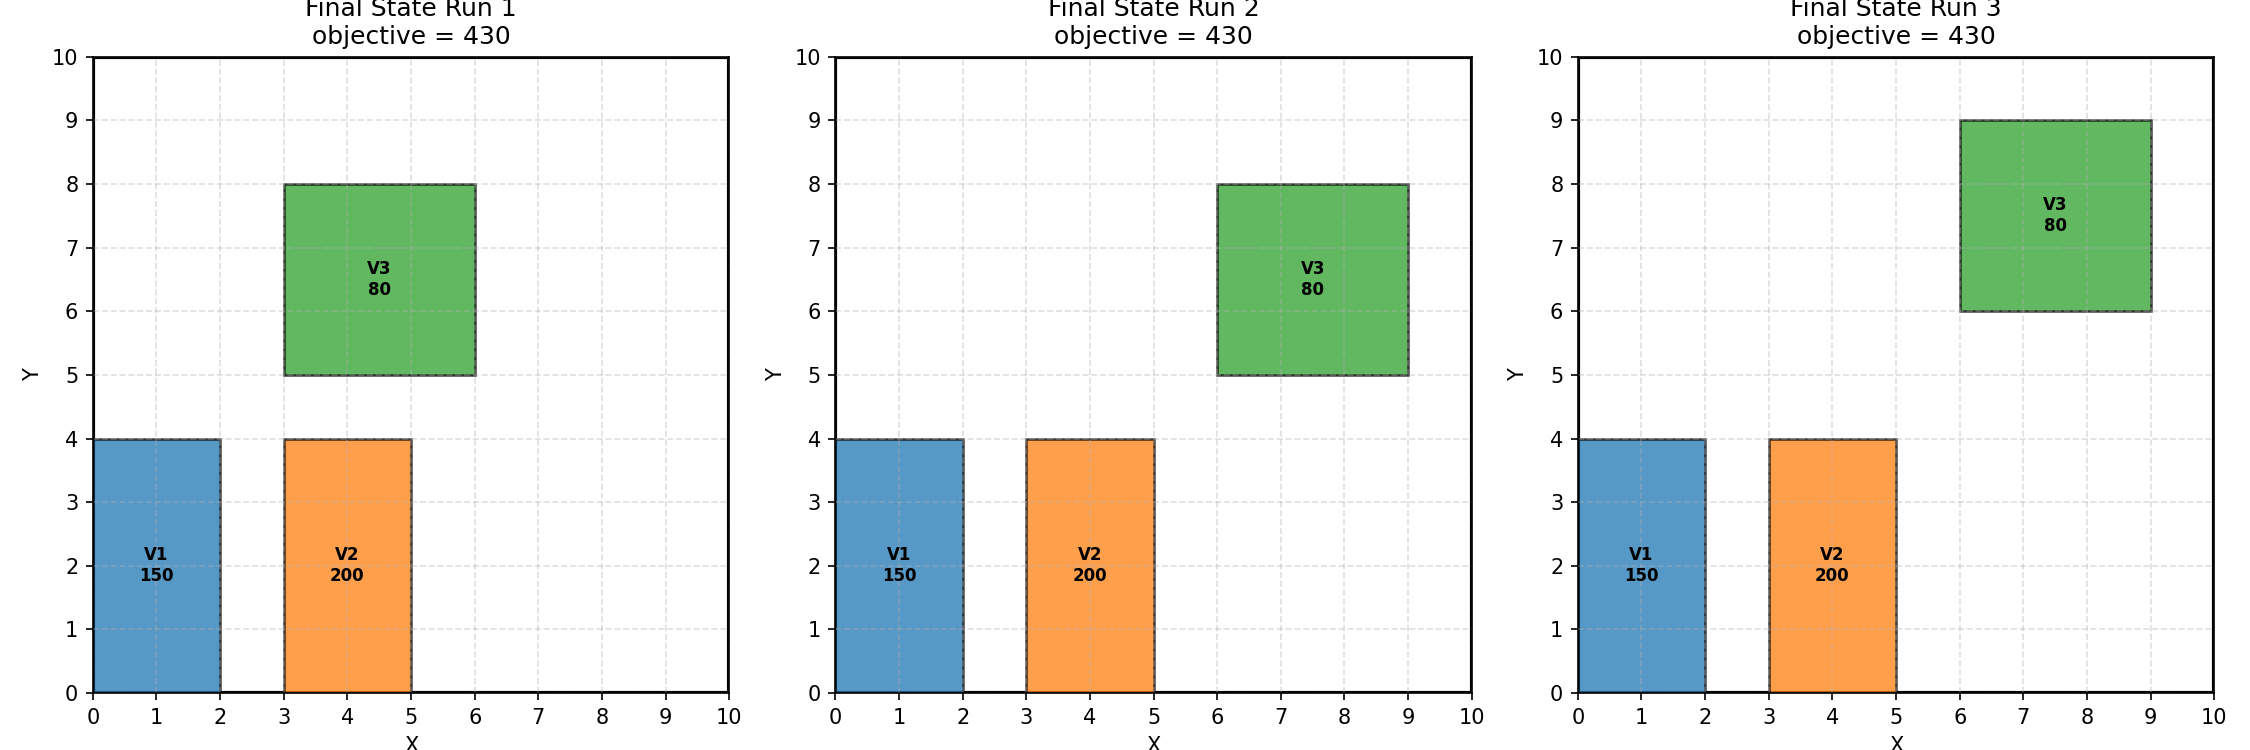
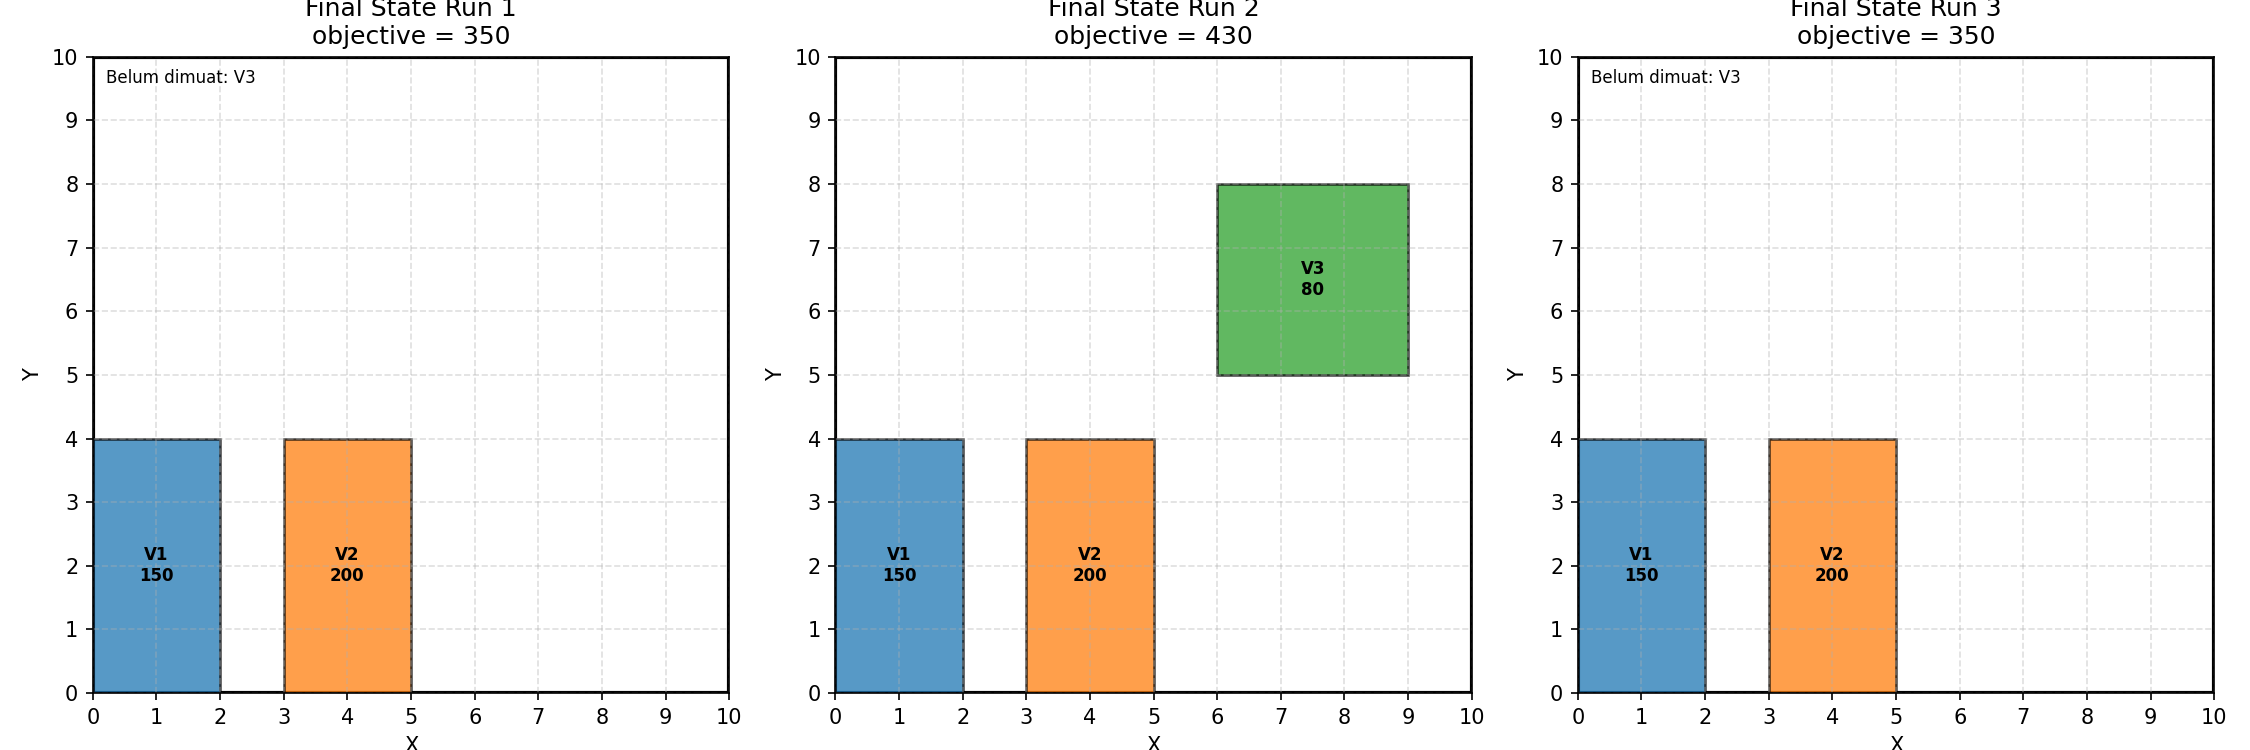
feat(hill-climbing): implement lab standard stochastic hill climbing with candidate sampling

diff --git a/src/hill_climbing.py b/src/hill_climbing.py
@@ -56,47 +56,52 @@ def get_random_neighbor(vehicles, ship):
     return neighbor
 
 
-# Simple / Stochastic Hill Climbing
-def hill_climbing(awal, ship, max_eval=3000, max_stuck=300):
-    print(f"Maksimum evaluasi tetangga: {max_eval}")
-    t0 = time.process_time()
-    
-    # Simpan state awal
-    state_sekarang = copy.deepcopy(awal)
-    skor = objective_function(state_sekarang, ship)
-    print(f"Skor Awal Objective: {skor}")
-    history = [skor]
-    stuck = 0
-    iterasi = 0
-    print(f"[{iterasi}] State Awal. Skor: {skor}")
-    
-    while iterasi < max_eval and stuck < max_stuck:
-        iterasi += 1
-        # Gunakan copy.deepcopy() saat membuat neighbor agar tidak terjadi in-place mutation
-        tetangga = get_random_neighbor(state_sekarang, ship)
-        skor_tetangga = objective_function(tetangga, ship)
-        
-        # Kriteria penerimaan solusi: current_state HANYA di-update jika neighbor_score > current_score
-        if skor_tetangga > skor:
-            state_sekarang = copy.deepcopy(tetangga)
-            skor = skor_tetangga
-            stuck = 0
-            print(f"[{iterasi}] Pindah. Skor Baru: {skor}")
-        else:
-            stuck += 1
+# Stochastic Hill Climbing sesuai standar Lab
+def stochastic_hill_climbing(initial_vehicles, ship, max_iterations=3000, num_candidates=4):
+    current_vehicles = copy.deepcopy(initial_vehicles)
+    current_score = objective_function(current_vehicles, ship)
+    history_score = [current_score]
+    total_iterations = 0
 
-        # List history mencatat current_score (skor terbaik saat itu di setiap iterasi), BUKAN neighbor_score acaknya
-        history.append(skor)
-            
+    while total_iterations < max_iterations:
+        total_iterations += 1
+        better_neighbors = []
+
+        # Sampling sekumpulan kandidat tetangga acak
+        for _ in range(num_candidates):
+            candidate = get_random_neighbor(current_vehicles, ship)
+            candidate_score = objective_function(candidate, ship)
+            if candidate_score > current_score:
+                better_neighbors.append((candidate, candidate_score))
+
+        # Terhenti jika tidak ada kandidat yang lebih baik (stuck di local optima)
+        if not better_neighbors:
+            break
+
+        # Pilih 1 kandidat secara acak dari kumpulan yang lebih baik
+        selected_neighbor, selected_score = random.choice(better_neighbors)
+        current_vehicles = copy.deepcopy(selected_neighbor)
+        current_score = selected_score
+        
+        history_score.append(current_score)
+
+    return current_vehicles, current_score, total_iterations, history_score
+
+
+# Alias fungsi untuk kompatibilitas
+def hill_climbing(awal, ship, max_eval=3000, max_stuck=300, num_candidates=4):
+    t0 = time.process_time()
+    best_vehicles, best_score, total_iterations, history_score = stochastic_hill_climbing(
+        awal, ship, max_iterations=max_eval, num_candidates=num_candidates
+    )
     lama = time.process_time() - t0
-    skor_awal = history[0]
     return {
         "initial_state": copy.deepcopy(awal),
-        "final_state": state_sekarang,
-        "skor_awal": skor_awal,
-        "final_score": skor,
-        "score_history": history,
-        "total_evaluations": iterasi,
+        "final_state": best_vehicles,
+        "skor_awal": history_score[0],
+        "final_score": best_score,
+        "score_history": history_score,
+        "total_evaluations": total_iterations,
         "execution_time": lama,
     }
 
@@ -209,8 +214,21 @@ def run_experiment(show_plot=True):
     for run, seed in enumerate([1, 2, 3], start=1):
         random.seed(seed)
         print(f"\n--- EKSPERIMEN RUN {run} ---")
-        res = hill_climbing(copy.deepcopy(kendaraan_awal), kapal, 3000, 300)
-        res["run_id"] = run
+        t0 = time.process_time()
+        best_vehicles, best_score, total_iterations, history_score = stochastic_hill_climbing(
+            kendaraan_awal, kapal, max_iterations=3000, num_candidates=4
+        )
+        duration = time.process_time() - t0
+        res = {
+            "run_id": run,
+            "initial_state": copy.deepcopy(kendaraan_awal),
+            "final_state": best_vehicles,
+            "skor_awal": history_score[0],
+            "final_score": best_score,
+            "score_history": history_score,
+            "total_evaluations": total_iterations,
+            "execution_time": duration,
+        }
         hasil.append(res)
         print(f"\nHasil Akhir Run {run}:")
         print(f"Objective awal : {res['skor_awal']}")
